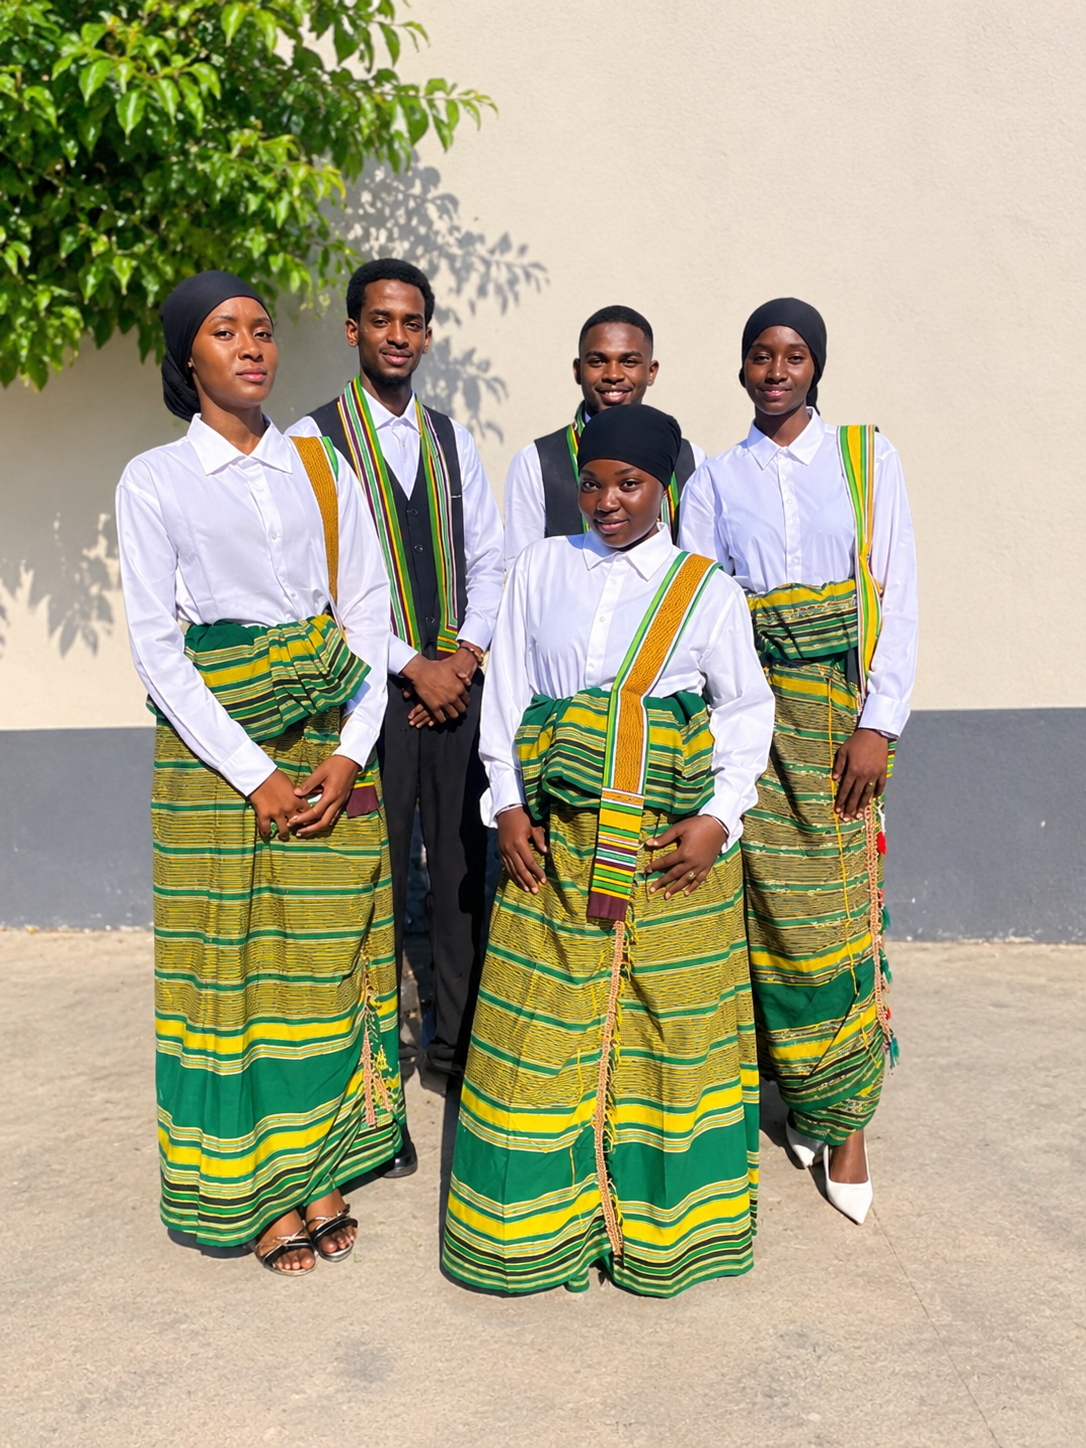
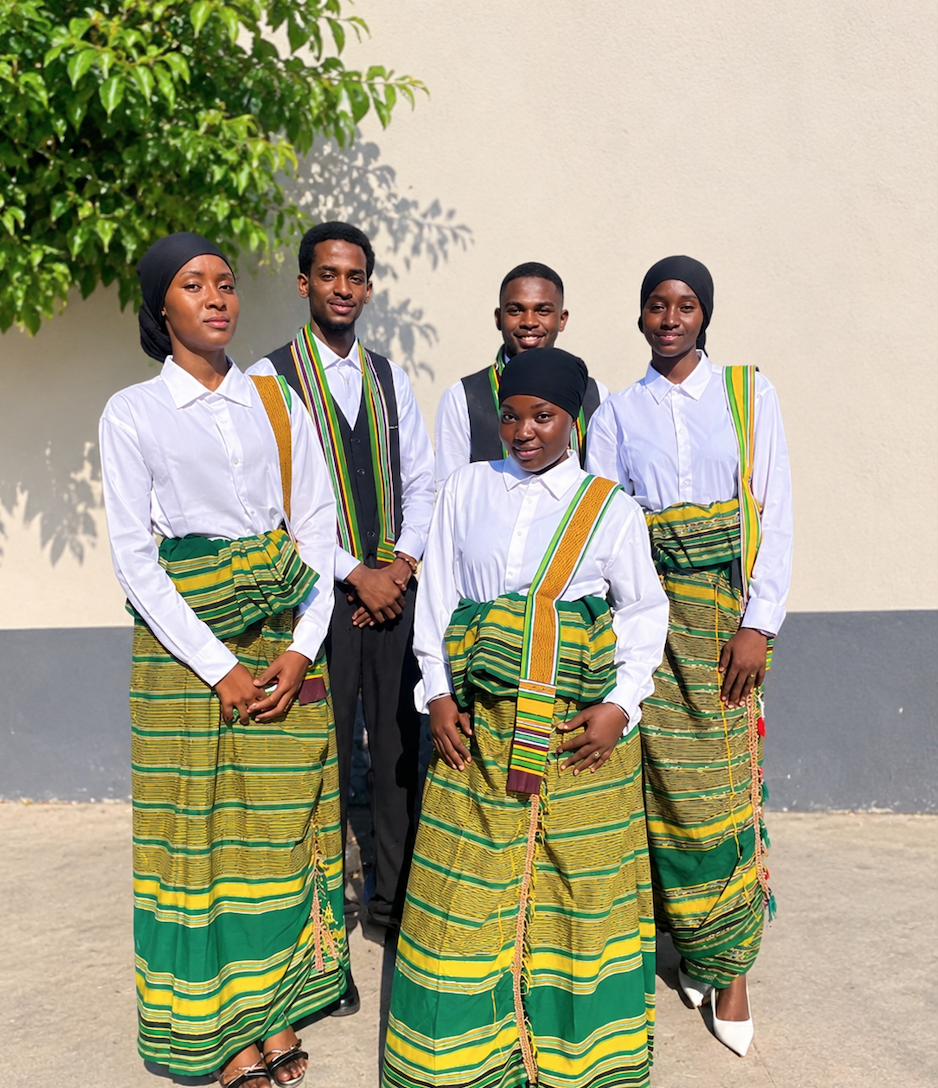
5 commit

diff --git a/css/styles.css b/css/styles.css
@@ -540,7 +540,7 @@ main {
 }
 
 .hero-home {
-  background-image: linear-gradient(90deg, var(--color-green-85), var(--color-green-40) 48%, var(--color-green-15)), url("../assets/images/photo_acc.PNG");
+  background-image: linear-gradient(90deg, var(--color-green-85), var(--color-green-40) 48%, var(--color-green-15)), url("../assets/images/photo_acc.png");
   background-size: cover;
   background-position: center 38%;
   background-attachment: fixed;
@@ -671,7 +671,7 @@ main {
 }
 
 .page-hero-contact {
-  background-image: url("../assets/images/anjouan.webp");
+  background-image: url("../assets/images/IMG_6165.jpg");
 }
 
 /* --------------------------------------------------------------------------
